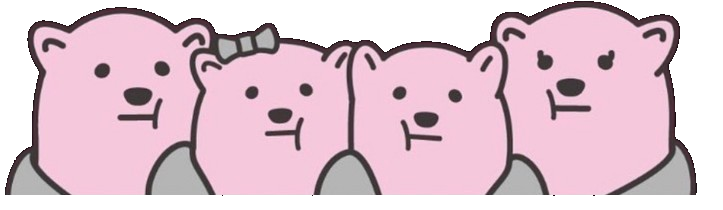
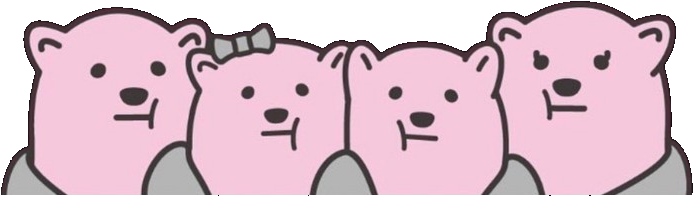
fix(fit365): prevent mascot from overlapping the FIT365 badge
- Tighten the mascot PNG (724x210 -> 694x197) to drop the residual transparent padding at the bottom that was making the bears appear to extend lower than expected
- Increase header top padding (pt-16/pt-20) so the FIT365 logo sits clearly below the floating bears
- Update Next/Image width/height to match the new asset

diff --git a/joyfit-review/app/[brand]/page.tsx b/joyfit-review/app/[brand]/page.tsx
@@ -50,8 +50,8 @@ export default async function BrandHomePage({ params }: Props) {
             <Image
               src={theme.mascotSrc}
               alt={theme.mascotAlt ?? ""}
-              width={723}
-              height={210}
+              width={694}
+              height={197}
               priority
               className="h-20 w-auto object-contain drop-shadow-[0_10px_20px_rgba(0,0,0,0.18)]"
             />
@@ -64,7 +64,7 @@ export default async function BrandHomePage({ params }: Props) {
         >
           <div
             className={`joyfit-brand-header px-6 pb-9 text-center text-white ${
-              hasMascot ? "pt-10 md:pt-12" : "pt-8 md:pt-10"
+              hasMascot ? "pt-16 md:pt-20" : "pt-8 md:pt-10"
             }`}
           >
             <JoyfitHeaderLogo brand={brand} />

diff --git a/joyfit-review/components/member/review-flow.tsx b/joyfit-review/components/member/review-flow.tsx
@@ -276,8 +276,8 @@ export function ReviewFlow({ storeId, storeName, reviewUrl, feedbackEmail }: Pro
           <Image
             src={brandTheme.mascotSrc}
             alt={brandTheme.mascotAlt ?? ""}
-            width={723}
-            height={210}
+            width={694}
+            height={197}
             priority
             className="h-20 w-auto object-contain drop-shadow-[0_10px_20px_rgba(0,0,0,0.18)]"
           />
@@ -292,7 +292,7 @@ export function ReviewFlow({ storeId, storeName, reviewUrl, feedbackEmail }: Pro
       >
         <div
           className={`joyfit-brand-header px-5 pb-7 text-center text-white md:px-6 ${
-            hasMascot ? "pt-10 md:pt-12" : "pt-6 md:pt-8"
+            hasMascot ? "pt-16 md:pt-20" : "pt-6 md:pt-8"
           }`}
         >
           <Link